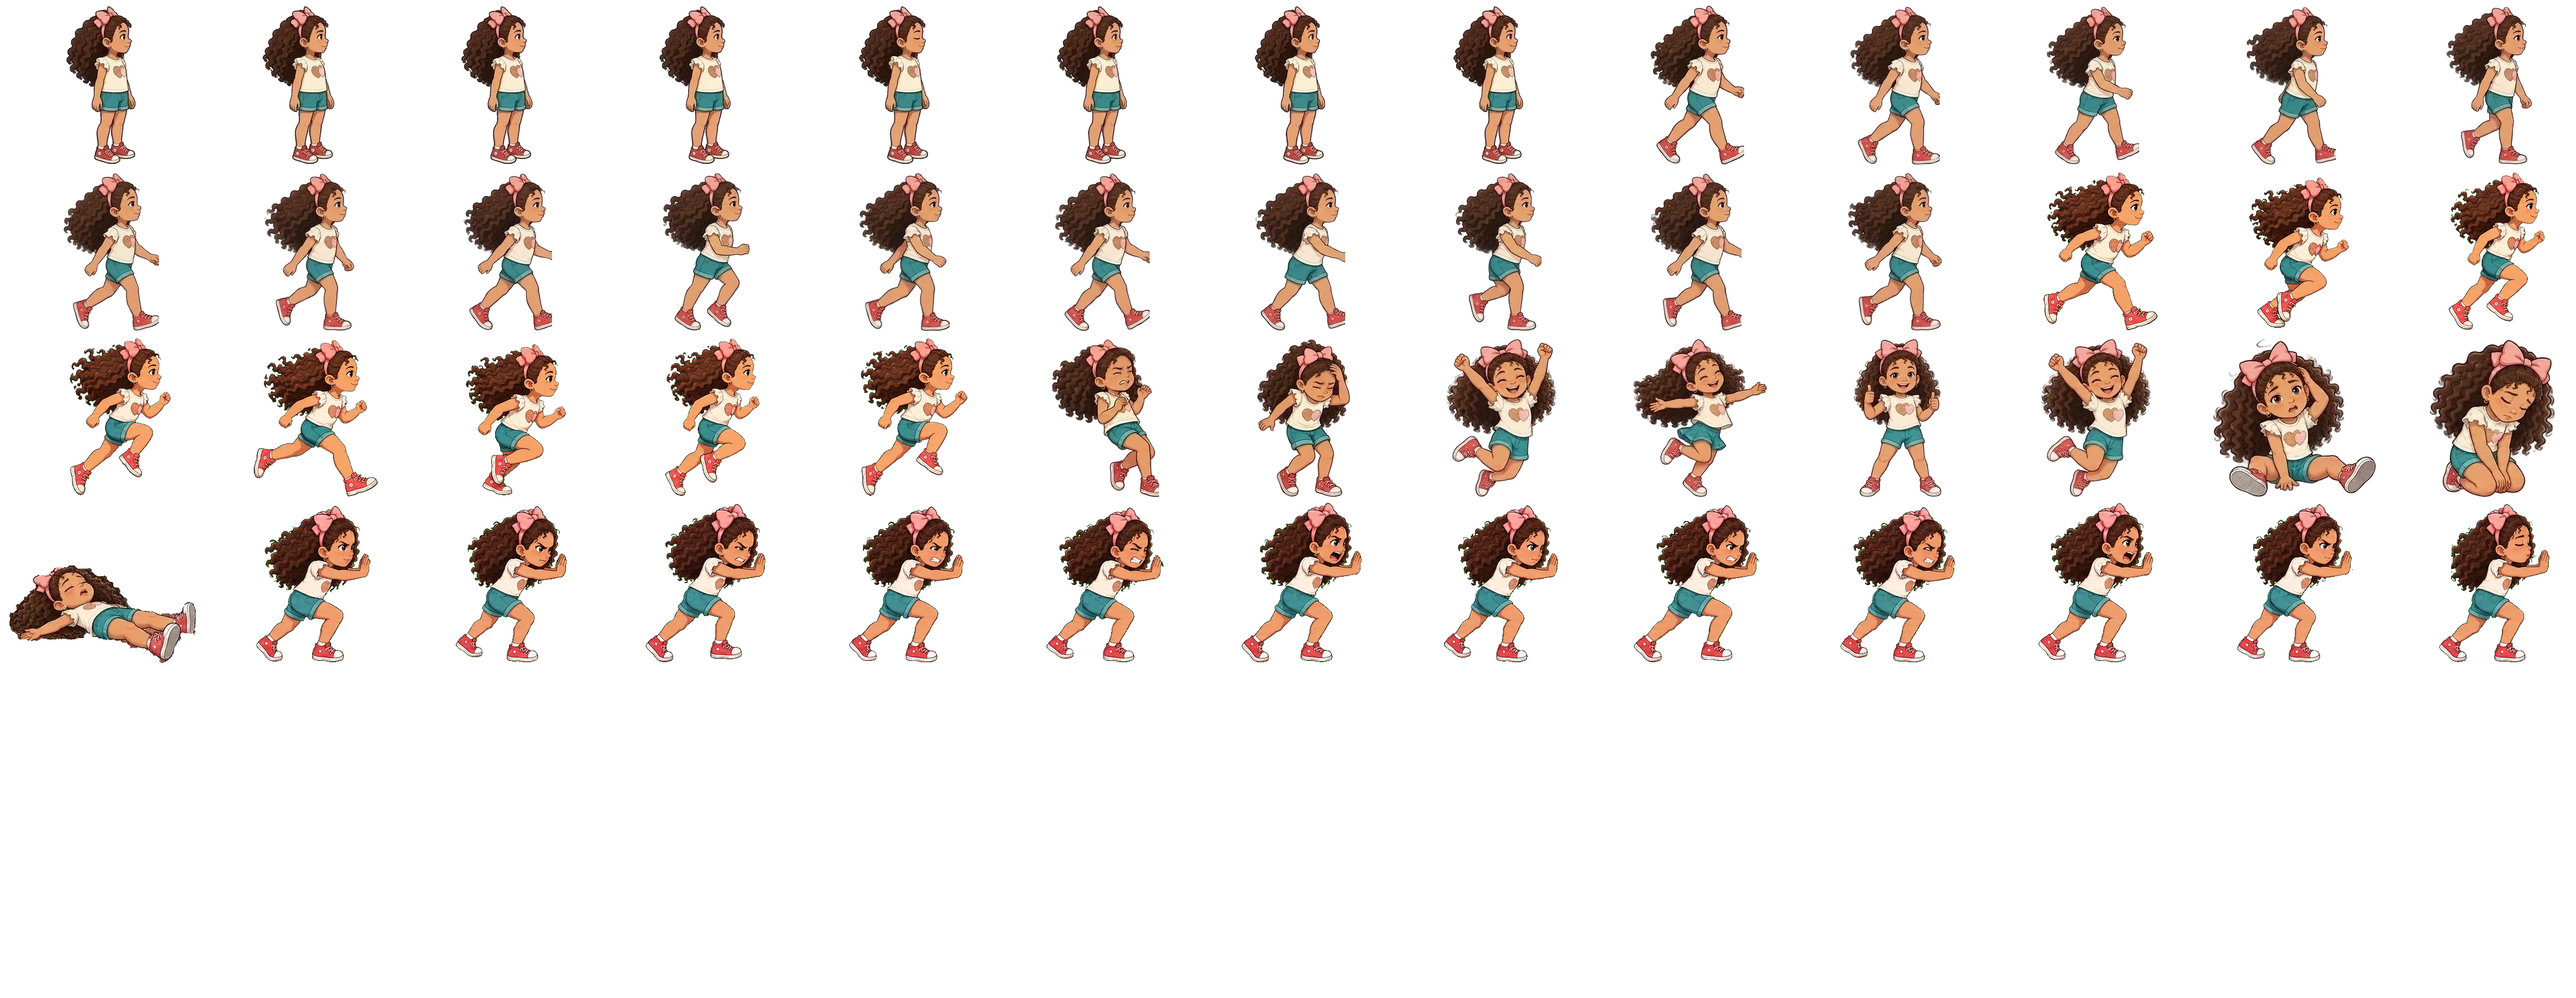
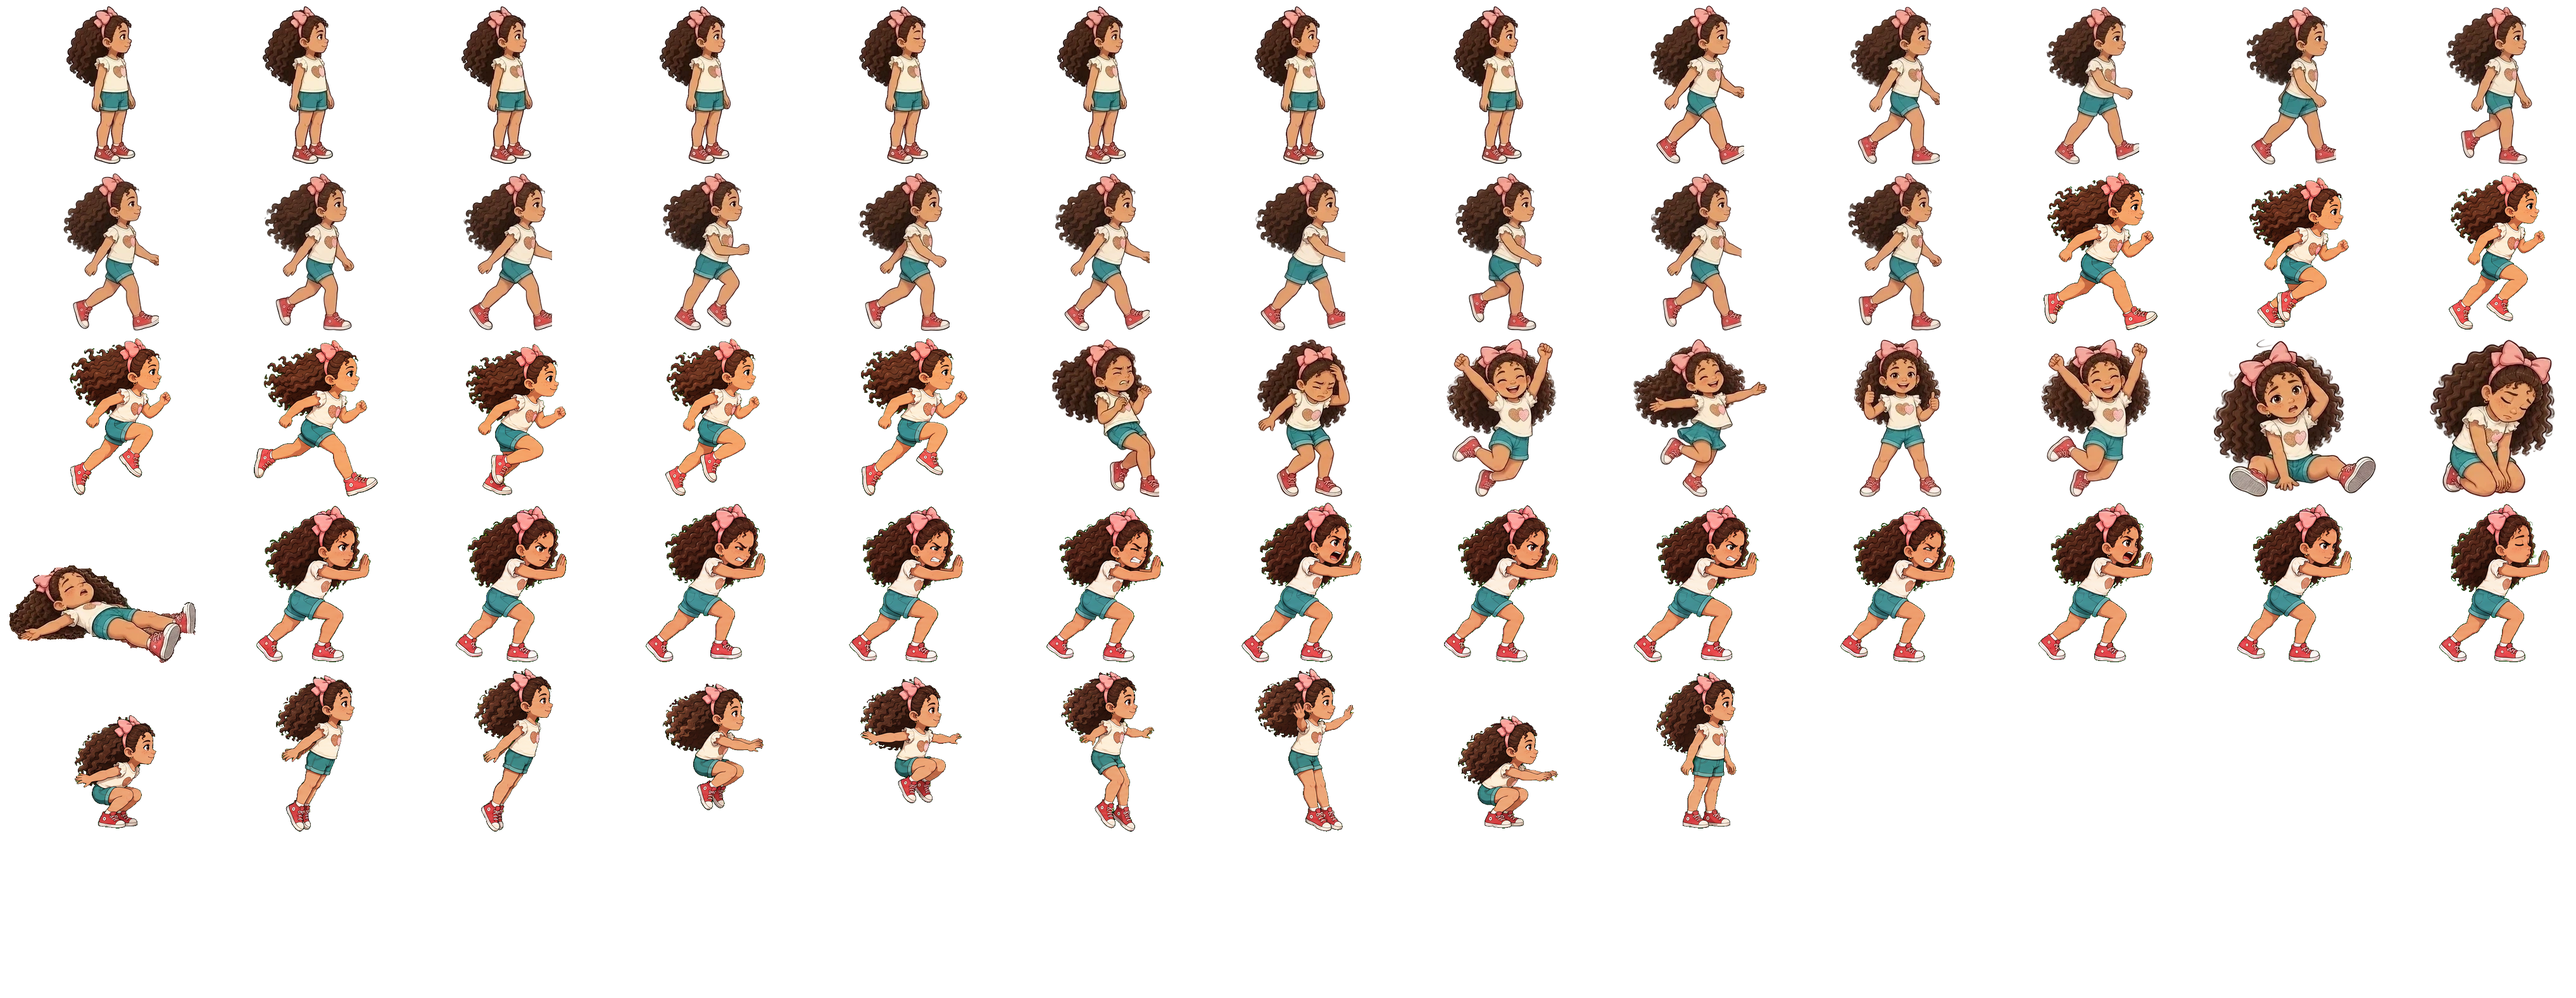
New 9-phase jump set integrated (ChatGPT sheet, Angelo-approved GIF)
Phases at angely 52-60: crouch, takeoff, rise, midrise, apex, earlyfall,
fall, land, recover. Extraction: Voronoi ownership, anti-clip verified
(all content inside cells). Anchoring: grounded frames feet on the
baseline; airborne frames waist-aligned to the standing waist line so
physics owns the arc and the sheet owns the pose.
Player.pickAnim picks the pose by vy as a fraction of JUMP_V; crouch
shows only in the first 75 ms after a jump/spring/stomp launch
(jumpStart stamped at all three). Landing: land 90 ms -> recover until
landUntil (210 ms on falls > 380). Jump velocity, height, speed,
collision and camera untouched. Validator PASS (361 anims), tsc clean,
harness: all 9 phases registered, apex staged on the player sprite.

diff --git a/src/entities/Player.ts b/src/entities/Player.ts
@@ -77,6 +77,8 @@ export class Player {
   private wasGrounded = true;
   private lastFallSpeed = 0;
   private landUntil = 0;
+  private landStart = -1000;
+  private jumpStart = -1000;
   private lastTrailAt = 0;
   private recoilVx = 0;
   private recoilUntil = 0;
@@ -169,6 +171,7 @@ export class Player {
 
   springBounce() {
     this.body.setVelocityY(-SPRING_V);
+    this.jumpStart = this.scene.time.now;
     this.jumpCut = false;
     this.boosted = true;
     this.lastGrounded = -1000;
@@ -199,7 +202,8 @@ export class Player {
         this.scene.fx("fx_dust", "puff", this.x, body.bottom, 0.22);
         this.scene.vfx.landDust(this.x, body.bottom);
         if (this.lastFallSpeed > 380 && this.state === "normal") {
-          this.landUntil = time + 120;
+          this.landStart = time;
+          this.landUntil = time + 210;
         }
       }
     }
@@ -240,6 +244,7 @@ export class Player {
       const canJump = time - this.lastGrounded < COYOTE_MS;
       if (time - this.jumpBufferedAt < BUFFER_MS && canJump) {
         body.setVelocityY(-JUMP_V);
+        this.jumpStart = time;
         this.jumpBufferedAt = -1000;
         this.lastGrounded = -1000;
         Audio.sfx("jump");
@@ -414,16 +419,31 @@ export class Player {
     }
     const body = this.body;
     if (!this.grounded) {
-      // Jump/air/fall sprite set removed at Angelo's direction (2026-10-22);
-      // airborne uses idle until a new jump set is generated.
-      this.setAnim("angely", "idle");
+      // Jump set of 9 phases (ChatGPT sheet, Angelo-approved GIF 2026-10-23).
+      // The pose is picked by vertical speed as a fraction of the jump
+      // impulse; physics owns the arc, the sheet owns the pose. The crouch
+      // shows only in the first 75 ms after a real jump/spring launch.
+      const f = body.velocity.y / JUMP_V;
+      let anim: string;
+      if (body.velocity.y < -40 && time - this.jumpStart < 75) anim = "crouch";
+      else if (f < -0.55) anim = "takeoff";
+      else if (f < -0.28) anim = "rise";
+      else if (f < -0.1) anim = "midrise";
+      else if (f <= 0.12) anim = "apex";
+      else if (f <= 0.45) anim = "earlyfall";
+      else anim = "fall";
+      this.setAnim("angely", anim);
       return;
     }
     if (this.pushing && axis !== 0) {
       this.setAnim("angely", "push");
       return;
     }
-    if (time < this.landUntil && Math.abs(body.velocity.x) < 200) return;
+    if (time < this.landUntil && Math.abs(body.velocity.x) < 200) {
+      // Landing: contact crouch first, then the recovery rise.
+      this.setAnim("angely", time - this.landStart < 90 ? "land" : "recover");
+      return;
+    }
     const speed = Math.abs(body.velocity.x);
     // start/stop transition anims removed at Angelo's direction (2026-10-22).
     if (speed > 225) {
@@ -437,6 +457,7 @@ export class Player {
 
   stompBounce(jumpHeld: boolean) {
     this.body.setVelocityY(-(jumpHeld ? JUMP_V * 0.95 : STOMP_BOUNCE));
+    this.jumpStart = this.scene.time.now;
     this.jumpCut = !jumpHeld;
     this.lastGrounded = -1000;
   }

diff --git a/src/assets/sprites.gen.ts b/src/assets/sprites.gen.ts
@@ -59,6 +59,69 @@ export const SPRITES = {
         "fps": 9,
         "repeat": -1,
         "h": 248
+      },
+      "crouch": {
+        "start": 52,
+        "end": 52,
+        "fps": 10,
+        "repeat": -1,
+        "h": 179
+      },
+      "takeoff": {
+        "start": 53,
+        "end": 53,
+        "fps": 10,
+        "repeat": -1,
+        "h": 247
+      },
+      "rise": {
+        "start": 54,
+        "end": 54,
+        "fps": 10,
+        "repeat": -1,
+        "h": 258
+      },
+      "midrise": {
+        "start": 55,
+        "end": 55,
+        "fps": 10,
+        "repeat": -1,
+        "h": 200
+      },
+      "apex": {
+        "start": 56,
+        "end": 56,
+        "fps": 10,
+        "repeat": -1,
+        "h": 200
+      },
+      "earlyfall": {
+        "start": 57,
+        "end": 57,
+        "fps": 10,
+        "repeat": -1,
+        "h": 253
+      },
+      "fall": {
+        "start": 58,
+        "end": 58,
+        "fps": 10,
+        "repeat": -1,
+        "h": 258
+      },
+      "land": {
+        "start": 59,
+        "end": 59,
+        "fps": 10,
+        "repeat": -1,
+        "h": 179
+      },
+      "recover": {
+        "start": 60,
+        "end": 60,
+        "fps": 10,
+        "repeat": -1,
+        "h": 248
       }
     }
   },
